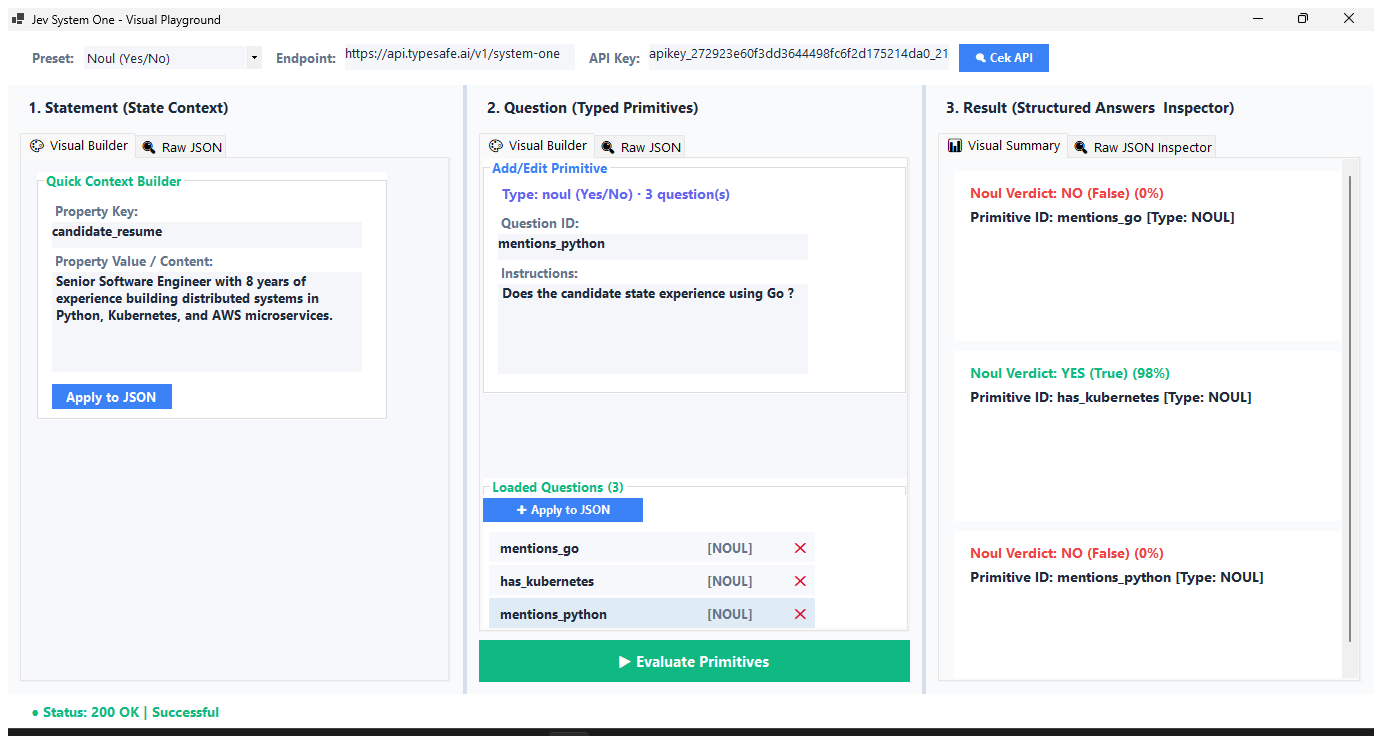
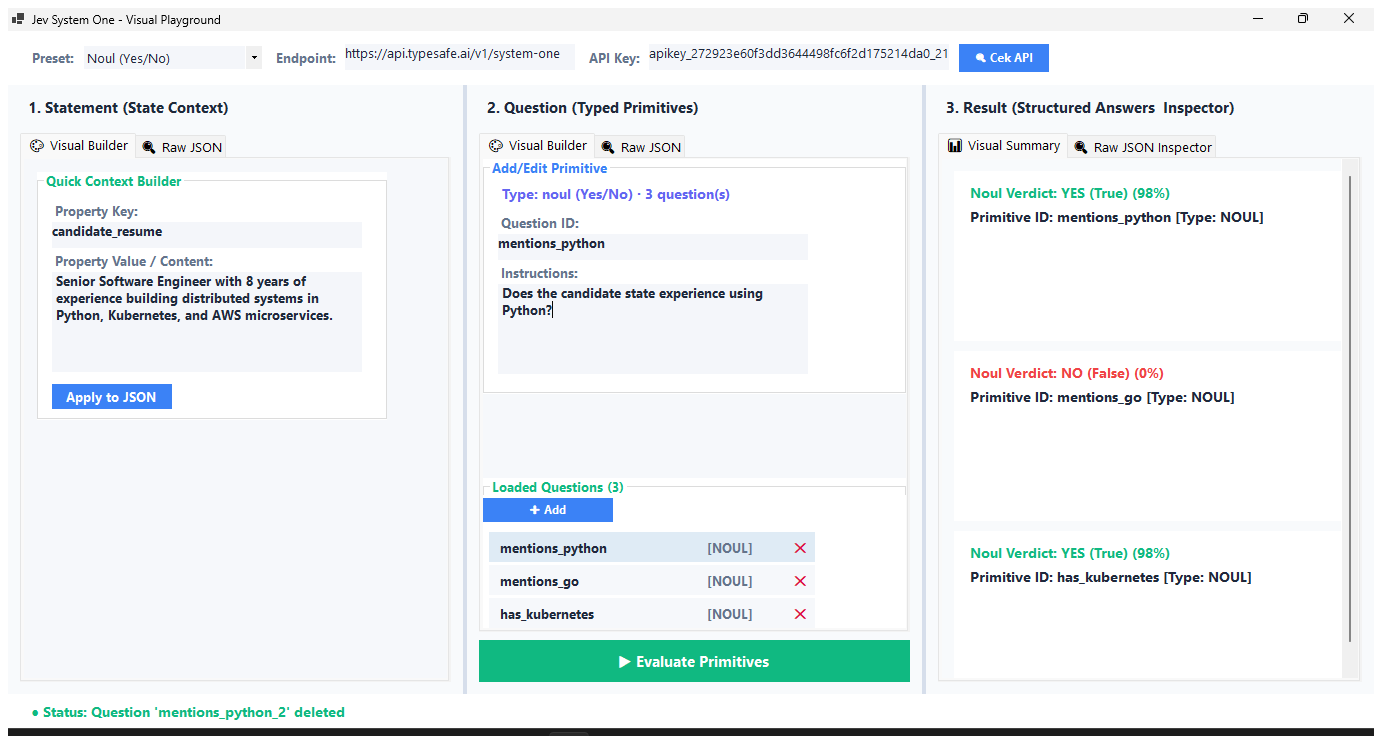
Restore Question button label to Add (left-docked)

diff --git a/Program.cs b/Program.cs
@@ -311,7 +311,7 @@ public class JevPlaygroundForm : Form
         lblQcrit = new Label { Text = "Options (comma separated):", Location = new Point(15, 225), AutoSize = true, ForeColor = ColMuted, Visible = false };
         txtQCriterias = new TextBox { Text = "Python, Go, Java", Location = new Point(15, 245), Width = 310, BackColor = ColInput, ForeColor = ColText, BorderStyle = BorderStyle.None, AutoSize = false, Height = 26, Visible = false };
 
-        btnApplyQ = new Button { Text = "➕ Apply to JSON", Dock = DockStyle.Left, Width = 160, Height = 24, BackColor = ColBlue, ForeColor = Color.White, FlatStyle = FlatStyle.Flat, Cursor = Cursors.Hand, Font = new Font("Segoe UI", 9F, FontStyle.Bold) };
+        btnApplyQ = new Button { Text = "➕ Add", Dock = DockStyle.Left, Width = 130, Height = 24, BackColor = ColBlue, ForeColor = Color.White, FlatStyle = FlatStyle.Flat, Cursor = Cursors.Hand, Font = new Font("Segoe UI", 9F, FontStyle.Bold) };
         btnApplyQ.FlatAppearance.BorderSize = 0;
 
         btnApplyQ.Click += (s, e) => {
